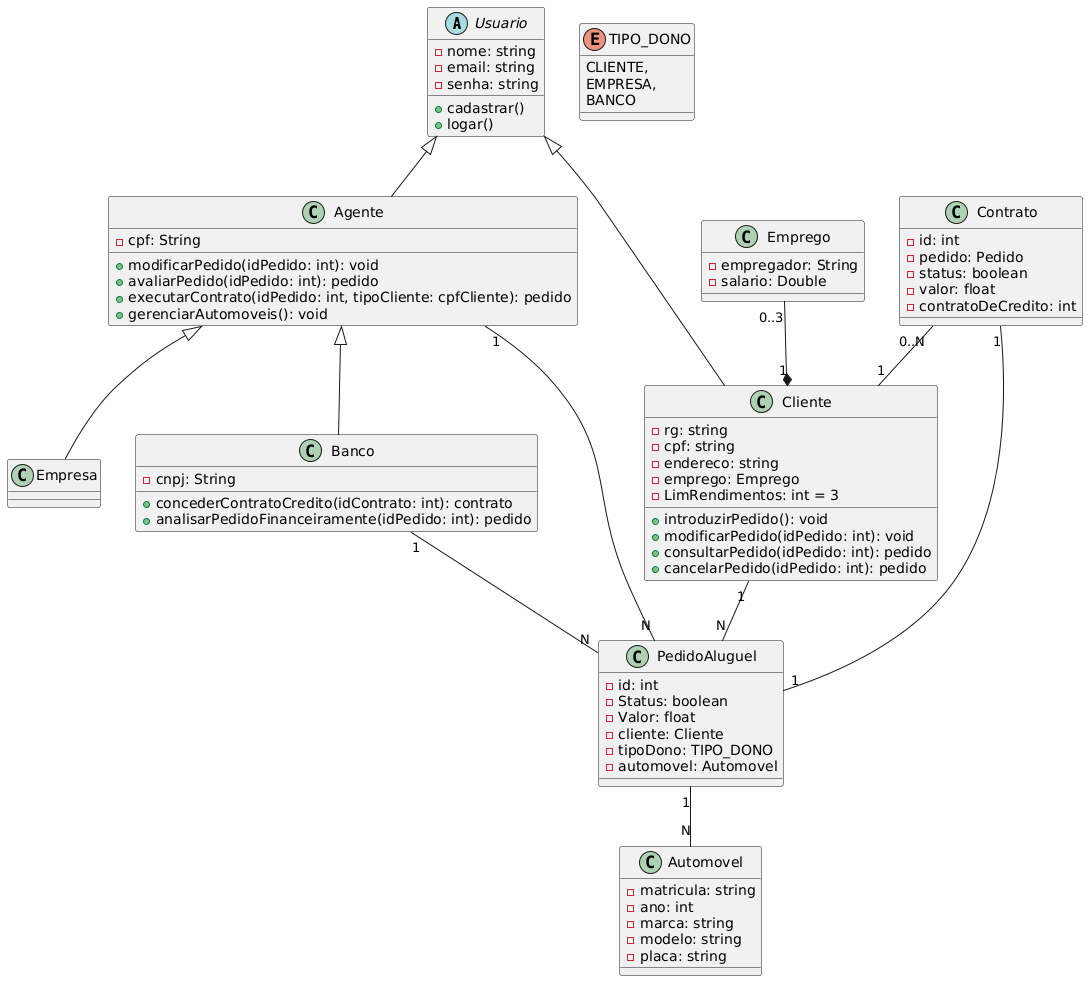
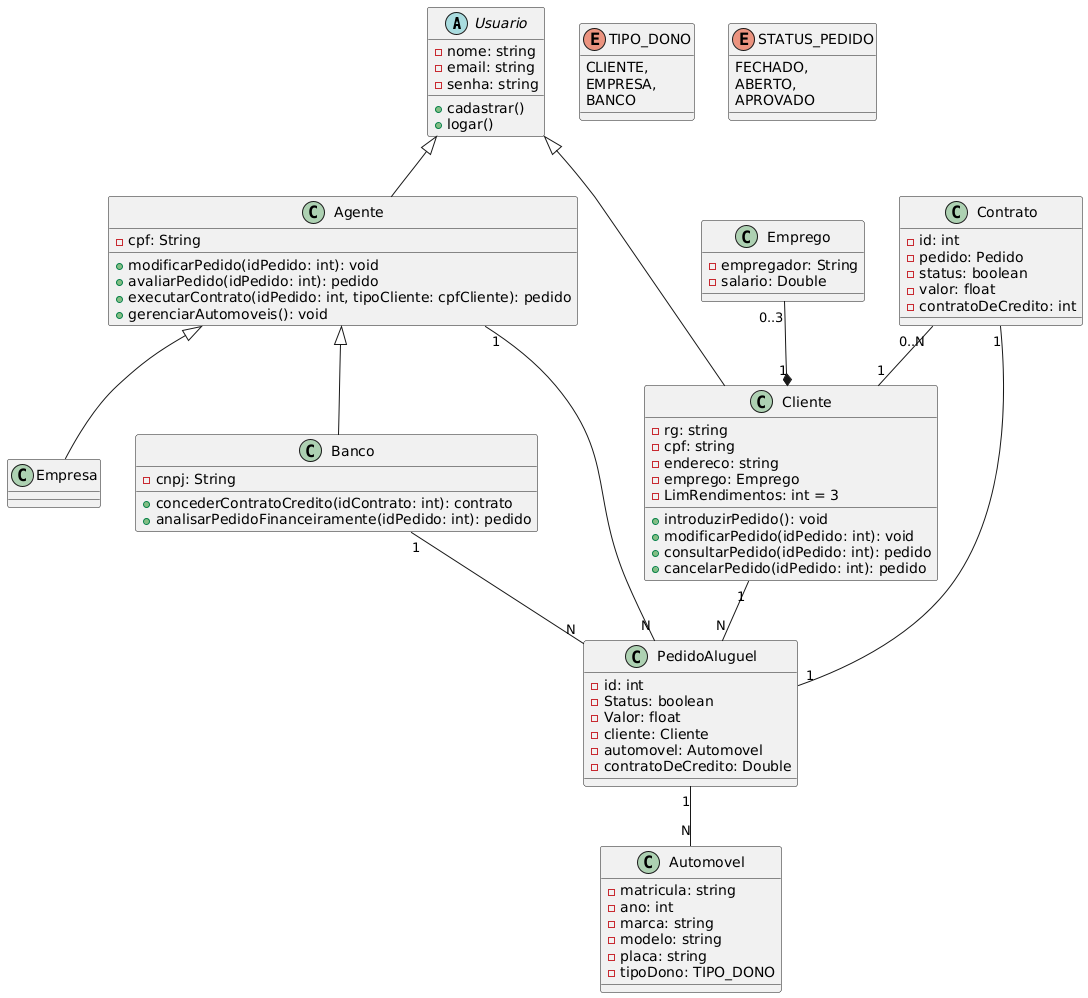
atualizando os diagramas

diff --git a/implementacao/backEnd/demo.labs/src/main/java/com/labs/demo/labs/Enums/STATUS_PEDIDO.java b/implementacao/backEnd/demo.labs/src/main/java/com/labs/demo/labs/Enums/STATUS_PEDIDO.java
@@ -1,7 +1,7 @@
 package com.labs.demo.labs.Enums;
 
 public enum STATUS_PEDIDO {
-    CANCELADO,
+    FECHADO,
     ABERTO,
     APROVADO
 }

diff --git a/projeto/diagramaDeClasseSprint2.md b/projeto/diagramaDeClasseSprint2.md
@@ -13,6 +13,12 @@ enum TIPO_DONO {
     BANCO
 }
 
+enum STATUS_PEDIDO {
+    FECHADO,
+    ABERTO,
+    APROVADO
+}
+
 class Cliente {
     -rg: string
     -cpf: string
@@ -47,8 +53,8 @@ class PedidoAluguel {
     -Status: boolean
     -Valor: float
     -cliente: Cliente
-    -tipoDono: TIPO_DONO
     -automovel: Automovel
+    -contratoDeCredito: Double
     
 }
 
@@ -66,6 +72,7 @@ class Automovel {
     -marca: string
     -modelo: string
     -placa: string
+    -tipoDono: TIPO_DONO
 }
 
 class Emprego {

diff --git a/projeto/diagramaDePacotesSprint2.md b/projeto/diagramaDePacotesSprint2.md
@@ -10,6 +10,9 @@ package "pkg" {
     }
     package "service" {
     }
+    package "enum" {
+    }
+
 
     
     package "dto" {
@@ -36,6 +39,7 @@ package "pkg" {
     controllers ..> models
     controllers ..> dto
     controllers ..> service
+    controllers ..> enum
     view ..> controllers :HTTP
     
 }
